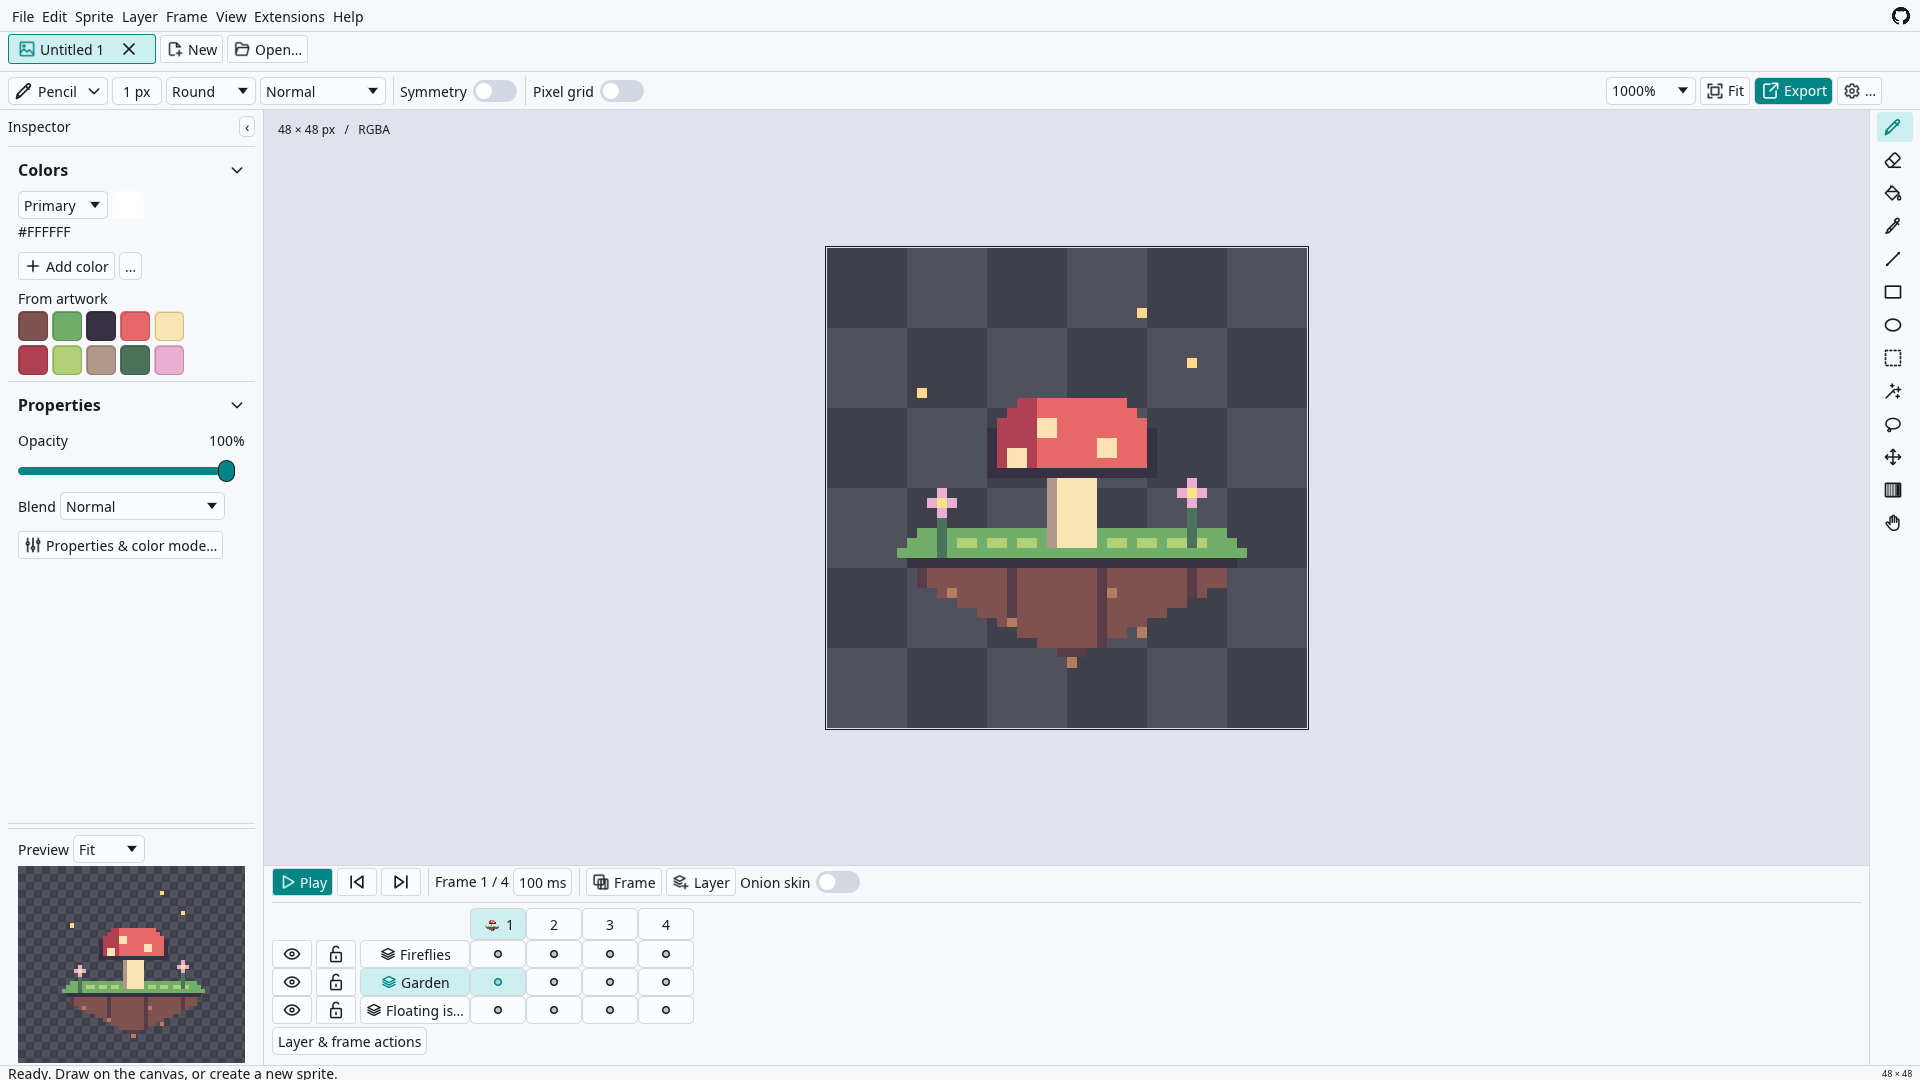
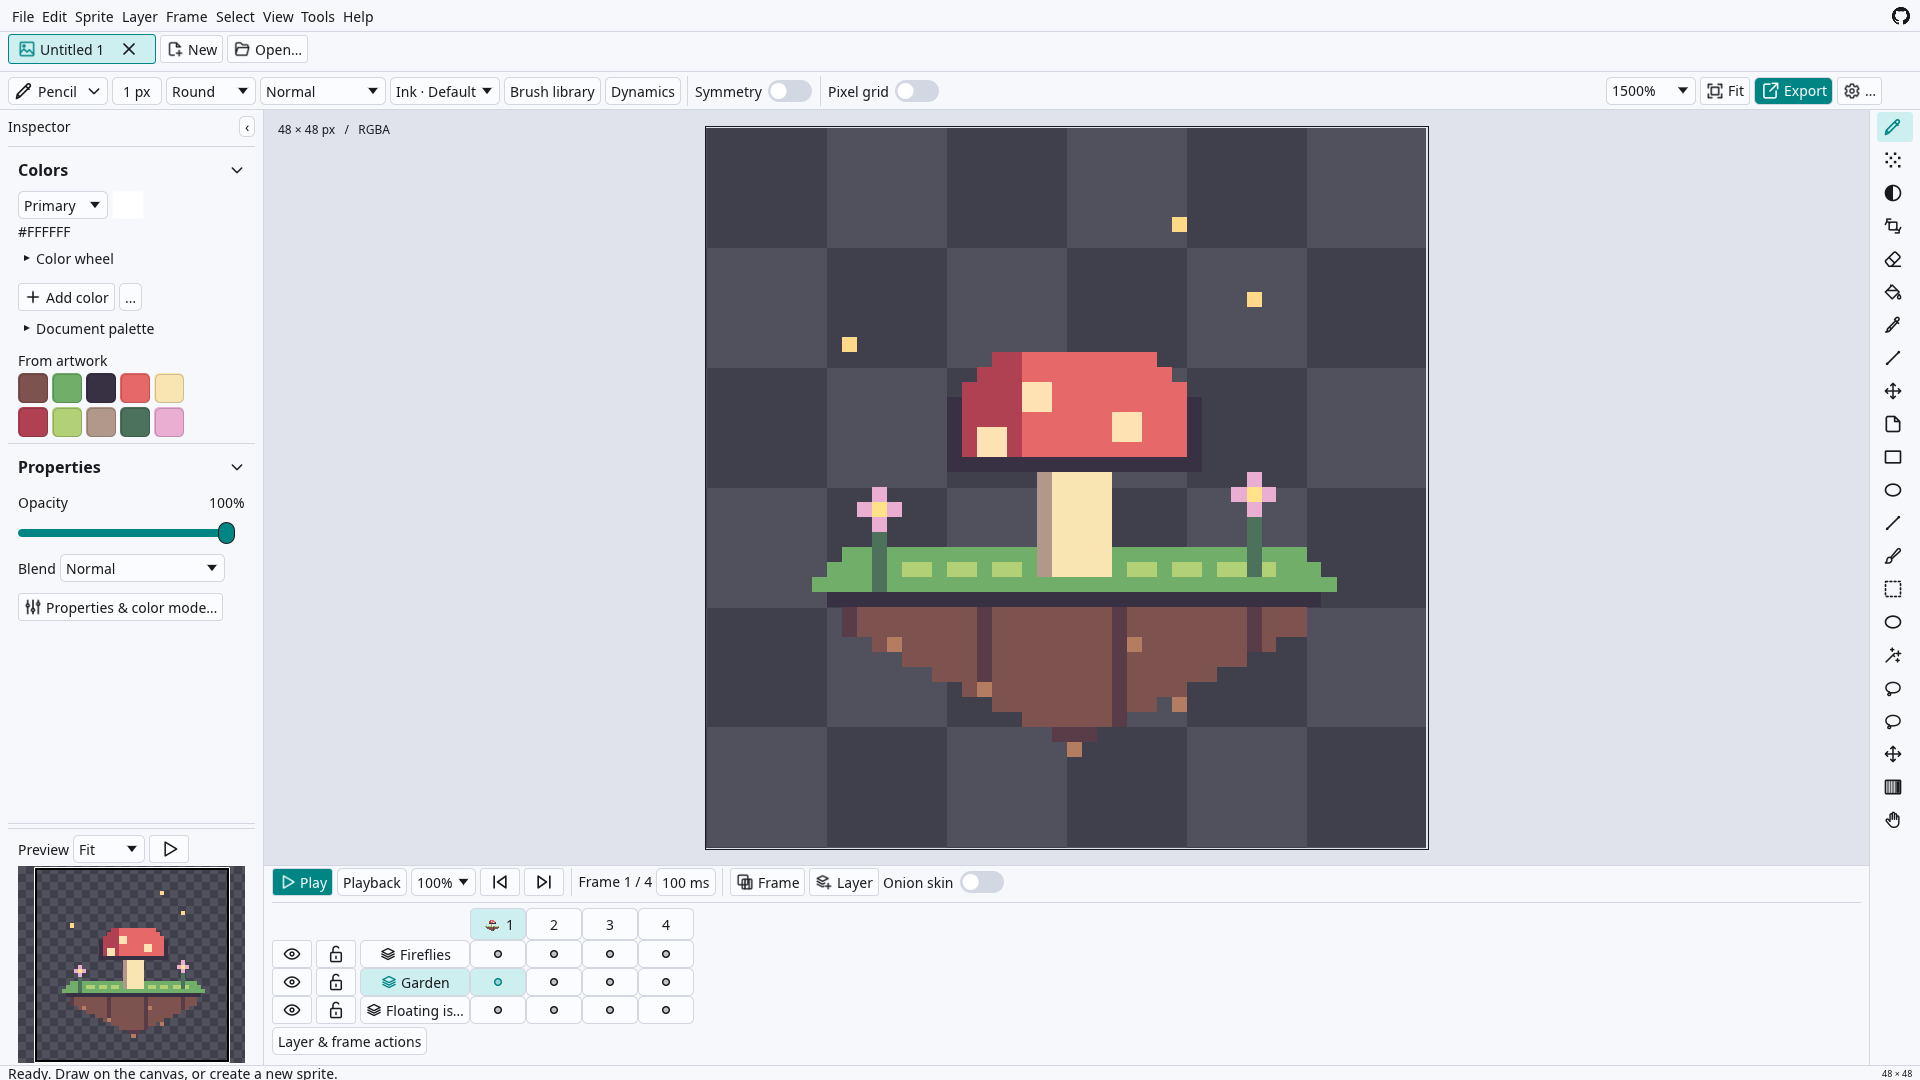
Document navigation changes and refresh Full HD screenshots

diff --git a/docs/menu-settings-validation-2026-11-19.md b/docs/menu-settings-validation-2026-11-19.md
@@ -1,0 +1,70 @@
+# Menu/settings validation — issue #25
+
+## Scope and platform evidence
+
+Implemented on `feature/discoverable-menus-searchable-settings` in reviewed commits. Local verification uses Linux. Windows and both native macOS architectures are checked by the pull-request workflow; their run results are recorded on the PR. Physical monitor changes and an external artist usability study were not performed.
+
+The final Linux suite passes **779 tests**, with 16 existing opt-in tests ignored. The three ignored live-bridge network tests were run separately and pass. Formatting, strict all-target Clippy, CLI/MCP headless workflows and the standalone executable check pass.
+
+Commands used:
+
+```sh
+cargo +1.95.0 fmt --check
+cargo +1.95.0 clippy --locked --all-targets -- -D warnings
+cargo +1.95.0 test --locked
+cargo +1.95.0 test --locked --test productivity -- --ignored
+python3 checks/productivity-headless.py
+pixelcraft --standalone-check <temporary-directory>
+```
+
+Each batch received independent code/security review. Findings were reproduced before fixes and rechecked. No outstanding actionable code or security findings remain from those reviews; native AppKit execution is validated on macOS CI rather than claimed from Linux source inspection.
+
+## Task walkthroughs
+
+| Task | Current route | Evidence |
+| --- | --- | --- |
+| Interface size and recovery | Edit → Settings → Appearance; Reset interface scale | Exact control search/focus; ordinary and 300% app zoom recovery; keyboard focus; synthetic DPI transitions. |
+| Recovery/autosave | Settings → Files & Recovery; search “autosave” | Actual checkbox click, saved configuration reload, category restoration and current-document preservation. |
+| Onion defaults | Settings → Animation; search “next tint” | Individual count/tint/opacity focus destinations, accessibility names, keyboard reveal and saved defaults. |
+| Current document profile | Sprite → Color Profile | Existing conversion/assignment preview, cancellation, native validation and Undo checks remain in the full suite. App display/import defaults have their own Color Management page. |
+| Fill tolerance | Fill → Fill options in the active tool bar | Existing rendered fill/wand controls and flood/selection regressions pass; tool preferences survive app reset. |
+| Sheet import | File → Import → Import sprite sheet | Focused task rendering and narrow-window controls; native grid-import/CLI/MCP fixtures verify cells, ordering and limits. |
+| Sheet/image export | File → Export sprite sheet; File → Export → format | Actual PNG/BMP/sequence files at selected scale; typed paths; overwrite confirmation; Repeat retains accepted scale; deep sheet controls remain keyboard-reachable. |
+| Asset packages | Tools → Asset extensions; linked from Settings | Rendered open/close/return and list refresh; existing package install/apply/disable/uninstall tests and standalone check. The OS file-picker interaction itself was not automated. |
+| Assistant access | Tools → Assistant access; linked from Settings | Destination stays opt-in; GUI routes/resets leave bridge disabled; existing revision, expiry, revocation, authentication and Undo tests pass. |
+| Workspace recovery | View → Layout → Restore default layout | Inspector/Preview visibility, Inspector/timeline dimensions, Preview settings and split-canvas reset; artwork/history preserved; secondary-pane curve remains drawable. |
+| Context properties | Sprite/Layer/Frame properties; Tileset tools | Correct object scopes, actual Done clicks, group/ancestor locks, target replacement/removal guards, clipped tile capture and Undo. |
+| Linked preferences dialogs | Settings → shortcuts/assets/assistant/About | Actual rendered open/close returns to the originating category, without stacking or losing a curve/transform draft. |
+
+These are automated/agent walkthroughs. No first-click success rates or user-observed mistakes are invented.
+
+## Display and visual checks
+
+- Rendered interaction checks cover **1366×768 and 1920×1080**, each at **100%, 125%, 150% and 200%** native scale, in light and dark mode.
+- The actual Linux executable was opened under isolated Xvfb displays with `WINIT_X11_SCALE_FACTOR`, producing 16 native Settings captures at those physical dimensions. These are synthetic native-DPI checks, not physical monitor/hardware tests.
+- Another 36 native Full HD captures cover the editor and 17 focused destinations in both themes. Captures used actual command search/action dispatch, not a mockup.
+- The same running rendered editor is resized and moved through synthetic DPI values; an oversized 300% interface scale is recovered through the keyboard.
+- Native captures were visually inspected and independently reviewed. They motivated the Settings body-height cap, one-shot selected-category reveal and meaningful action icons. Inspector remains left, tools right and Preview bottom-left.
+- Focus, Tab/Enter, scrolling, checked/selected and disabled states, pointer activation, dialog close/backdrop behavior and fixed footers are covered by rendered interaction tests. Static screenshots do not alone prove hover or pressed behavior.
+
+Representative Full HD editor and Settings screenshots are stored in `shots/`, and the README/guide select light or dark images using the viewer's GitHub theme.
+
+## Review findings resolved
+
+- Long menus clipped uncommon exports; bounded scrolling plus pointer, wheel and Tab/Enter tests now reach the final export.
+- Disabled actions and unavailable recent files lacked explanations; one availability predicate now supplies both menu and search reasons.
+- Newly added IDs could shadow precise command queries; exact IDs now rank first.
+- Broad reset crossed into tools/view/export state; category/app resets now respect the inventory's ownership contract.
+- Test editors shared configuration; storage is now explicitly injected, while native startup restores the existing user path before applying preferences.
+- Focus could move outside scrolling content; Settings, workflow, properties and sheet dialogs reveal it while keeping fixed chrome stable.
+- New dialogs exposed a shared Done-return bug; return handling and existing dialog workflows were verified.
+- Old toolbar/property shortcuts reopened unrelated pages; they now use canonical task/object routes.
+- Group metadata incorrectly used an image-only edit predicate; it now respects ancestor locks while allowing unlocked groups.
+- Off-canvas tile capture could panic; selection bounds are clipped before indexing and the candidate document is validated before Undo.
+- Image scale was hidden behind the sheet draft; actual export flows now expose a local draft, preserve cancellation and retain accepted scale on Repeat.
+- An animation-to-file-dialog transition could lose typed input; focus delivery is acknowledged before retiring the initial request.
+- Fast shortcut taps lost their modifiers; matching now uses press-event modifiers, including exact custom chords. macOS menu shortcuts yield to explicit custom assignments.
+
+## Native macOS check
+
+The platform adapter retains its AppKit target, clears its weak menu target before dropping it and coalesces callbacks through a bounded queue. It owns no editor pointer across FFI. The packaged macOS smoke check verifies a synthetic Command-Comma event, menu activation, custom-override enable/disable behavior, bounded delivery and the production UI event-drain route, then captures Settings. Both macOS architectures run this check in CI.

diff --git a/docs/navigation-and-settings.md b/docs/navigation-and-settings.md
@@ -1,0 +1,66 @@
+# Finding commands and preferences
+
+Menus follow the editor's objects: File, Edit, Sprite, Layer, Frame, Select, View, Tools and Help. Commands that need more input end with an ellipsis. Unavailable commands explain their current constraint. Long menus scroll, including when navigating with Tab; Enter activates the focused command.
+
+Open command search with Ctrl+Shift+P (Command-Shift-P on macOS). Former menu names remain searchable, alongside new category paths and setting aliases. Searching does not decode files or process canvas pixels.
+
+## Common tasks
+
+| Task | Destination |
+| --- | --- |
+| Theme, spacing or interface size | Edit → Settings → Appearance |
+| Transparency checkerboard or wheel zoom | Settings → Canvas & Navigation |
+| Onion counts, tints or opacity | Settings → Animation |
+| Display ICC profile and image import policy | Settings → Color Management |
+| Current sprite's color profile | Sprite → Color Profile |
+| Autosave/recovery or new-sprite defaults | Settings → Files & Recovery |
+| Custom key bindings | Edit → Keyboard shortcuts; also linked from Settings |
+| Installed asset packages | Tools → Asset extensions; also linked from Settings |
+| Reference images | Tools → Reference images |
+| Document palette and snapping | Tools → Palette tools; also the Inspector's Palette tools button |
+| Brush capture and drawing options | Tools → Brushes and selection; active-tool options stay in the drawing bar |
+| Fill tolerance | Select Fill on the right, then Fill options in the drawing bar |
+| Import cells from a sheet | File → Import → Import sprite sheet |
+| Export a sheet | File → Export sprite sheet |
+| Export every animation tag | File → Export animation tags |
+| Pack several sprites into an atlas | File → Export multi-file atlas |
+| Current sprite mode, grid, pixel aspect and slices | Sprite → Sprite properties |
+| Canvas and sprite dimensions | Sprite → Canvas size / Sprite size |
+| Layer/group membership and cel appearance | Layer → Layer properties |
+| Frame duration and animation ranges | Frame → Frame and animation properties |
+| Tilesheet capture and tile-layer setup | Sprite → Tileset tools |
+| Live-editor assistant access | Tools → Assistant access; also linked from Settings |
+| Show panels or restore layout | View for Inspector/Preview visibility; View → Layout for split/reset |
+
+The old Workflow tools action remains as a destination index. Settings links to existing asset, shortcut and About dialogs without leaving two dialogs stacked; closing the linked destination returns to the originating Settings page.
+
+## Settings search and scope
+
+Settings remembers the last category. Search matches labels, descriptions and aliases such as “autosave”, “transparency background”, “DPI” and “next tint”. A result shows its category path and reveals/focuses the actual control. Clear returns to normal category navigation without changing values. Wide windows show a category list; narrow windows use a category selector and scrolling content.
+
+On macOS, **PixelCraft → Settings…** also opens this destination. Command-Comma is its default shortcut; an explicit custom assignment takes precedence, while the menu entry remains clickable. Windows/Linux retain **Edit → Settings** and the default Ctrl+Comma shortcut. Ctrl+Shift+0 (Command-Shift-0 on macOS) restores interface scale unless that chord has been assigned elsewhere; the visible recovery button remains available.
+
+App preferences describe future documents, display behavior or default tools. They do not silently change the open sprite. Sprite, layer and frame properties apply to the current object and use the existing document validation and Undo history. A properties dialog closes if its target document, layer or frame changes, rather than applying an edit to another object.
+
+Sheet scale, packing and import geometry belong to the current export/import task. The Inspector stays left, drawing tools right and Preview bottom-left. Window decorations remain native.
+
+## Reset and recovery
+
+| Action | Scope |
+| --- | --- |
+| Reset this page | That category's app defaults only. Appearance also restores System theme and removes the applied custom override. Installed theme assets remain. |
+| Reset preferences… | Confirmed combination of app category defaults. Preserves recent files, export presets, tool preferences, custom shortcuts, installed assets, documents, Undo/Redo, current document/view settings and assistant access. |
+| Reset interface scale | 100% app interface zoom, following the system's display scaling. Canvas zoom and artwork are unchanged. |
+| View → Layout → Restore default layout | Shows the Inspector and bottom-left Preview, restores Inspector/timeline panel dimensions, resets Preview size/zoom/pan and removes the current split canvas. Artwork and history remain. |
+
+Live assistant access remains an explicit opt-in for the current running editor. Opening a destination, searching, restoring layout or resetting preferences never enables it. The private bridge file contains an access token; only its command/path is displayed. Turning access off retains existing cancellation and revision checks.
+
+## Verification
+
+Implementation and review evidence, including test commands, task walkthroughs, synthetic display-scale captures and platform limits, is recorded in [the execution plan](superpowers/plans/2026-11-19-menu-settings-discovery.md). Synthetic DPI tests exercise egui at the requested physical dimensions; they do not substitute for physical monitor transitions or observations from artists.
+
+<picture>
+  <source media="(prefers-color-scheme: dark)" srcset="../shots/settings-dark.png">
+  <source media="(prefers-color-scheme: light)" srcset="../shots/settings-light.png">
+  <img src="../shots/settings-light.png" alt="PixelCraft Settings at 1920×1080 with category navigation, search, Files and Recovery controls and scoped resets">
+</picture>

diff --git a/docs/superpowers/plans/2026-11-19-menu-settings-discovery.md b/docs/superpowers/plans/2026-11-19-menu-settings-discovery.md
@@ -19,7 +19,7 @@ Use the existing Rust/egui Fluent UI, native window decorations, command dispatc
 - Existing document validation, history, permissions, live opt-in/revision checks and native CLI/MCP behavior own operations.
 - Old preferences load with defaults for new navigation metadata. Search query and focus are session UI state.
 - Rendering follows the available logical viewport and current DPI. Category navigation, Close and scale recovery stay reachable.
-- Implement and test in this worktree. Commit each reviewed batch. Push/PR/release are separate follow-up actions.
+- Implement and test in this worktree. Commit each reviewed batch. A draft PR supplies the required Windows/macOS CI after local verification; merging and releasing are separate follow-up actions.
 
 ## Review focus
 
@@ -87,15 +87,17 @@ Files are settings/menu routing, src/fluent.rs, shortcut handling and a macOS-on
 - [x] Add failing regressions for layout reset, scale recovery, confirmed reset scope and current-document preservation.
 - [x] Implement View layout recovery using existing Inspector/Preview/split-view state and stored configuration.
 - [x] Verify scale recovery through keyboard and settings at minimum logical sizes.
-- [ ] Implement the early-assessed native AppKit Settings adapter with retained target/menu ownership and bounded event delivery through the existing settings action.
-- [ ] Run relevant regressions and platform compilation/CI where available. Review/fix and commit.
+- [x] Implement the early-assessed native AppKit Settings adapter with retained target/menu ownership and bounded event delivery through the existing settings action.
+- [x] Run local regressions and independent native API/lifetime review; commit. Native execution/compilation results are tracked by the draft PR’s Windows/both-macOS checks.
 
 ## Batch 6 — Visual validation and final review
 
-- [ ] Run task paths for scale, recovery, onion defaults, document profile, fill tolerance, sprite-sheet import/export, asset management, assistant access and layout recovery.
-- [ ] Capture rendered UI at 1366×768 and 1920×1080, each at 100%, 125%, 150% and 200% display scaling. Exercise resizing, synthetic monitor-DPI changes, keyboard focus, hover/pressed/disabled/selected states and light/dark themes. Record physical monitor/hardware checks separately.
-- [ ] Visually inspect real rendered screenshots and fix clipping, oversized spacing, unreachable controls or inconsistent feedback.
-- [ ] Update README/navigation documentation and representative screenshots.
-- [ ] Run formatting, strict all-target Clippy, full suite, native CLI/MCP workflows, live bridge, clipboard and graphical startup checks.
-- [ ] Run independent whole-branch code/security and visual review, fix reproduced findings and re-review.
-- [ ] Reconcile every issue checkbox with actual evidence and report completed work and any genuine platform/hardware verification limits.
+- [x] Run task paths for scale, recovery, onion defaults, document profile, fill tolerance, sprite-sheet import/export, asset management, assistant access and layout recovery.
+- [x] Capture rendered UI at 1366×768 and 1920×1080, each at 100%, 125%, 150% and 200% display scaling. Exercise resizing, synthetic monitor-DPI changes, keyboard focus, hover/pressed/disabled/selected states and light/dark themes. Record physical monitor/hardware checks separately.
+- [x] Visually inspect real rendered screenshots and fix clipping, oversized spacing, unreachable controls or inconsistent feedback.
+- [x] Update README/navigation documentation and representative screenshots.
+- [x] Run formatting, strict all-target Clippy, full suite, native CLI/MCP workflows, live bridge, clipboard and graphical startup checks.
+- [x] Run independent whole-branch code/security and visual review, fix reproduced findings and re-review.
+- [x] Reconcile every issue checkbox with actual evidence and report completed work and any genuine platform/hardware verification limits.
+
+Final local evidence: 779 Linux tests pass, 16 opt-in tests ignored; three live-network tests pass separately; strict all-target Clippy, format, standalone and CLI/MCP checks pass. Native captures include 16 resolution/DPI/theme Settings cases and 36 Full HD task/editor cases. Independent review loops and visual findings are documented in [the validation report](../../menu-settings-validation-2026-11-19.md). Native platform CI results and the final issue checklist are maintained on the PR. Physical-monitor testing and external-user first-click observations remain explicitly outside the evidence.
